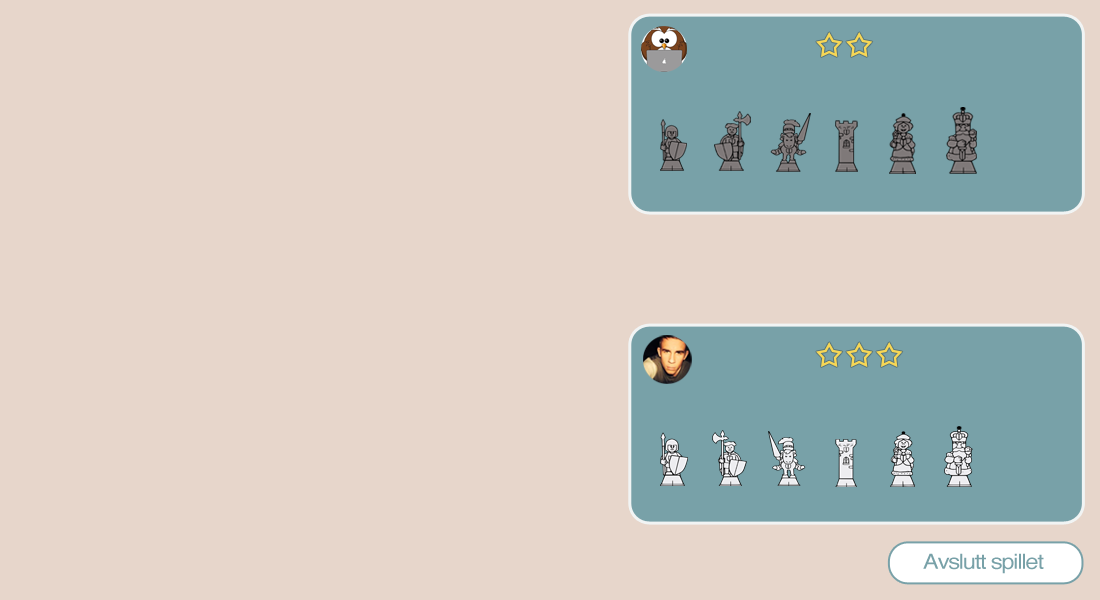
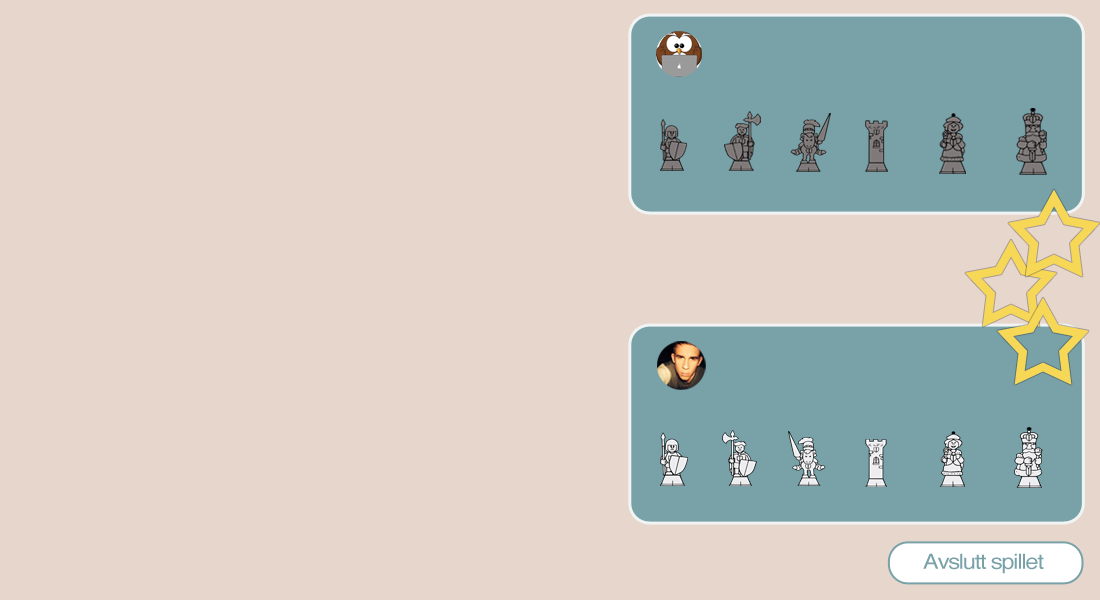
More GUI update

diff --git a/core/src/com/grnn/chess/states/PlayState.java b/core/src/com/grnn/chess/states/PlayState.java
@@ -137,22 +137,22 @@ public class PlayState extends State {
 
         fontText.draw(batch, text, 645, 334);
         fontCounter.draw(batch, "" + pawnCounter, 668, 420);
-        fontCounter.draw(batch, "" + bishopCounter, 727, 420);
-        fontCounter.draw(batch, "" + knightCounter, 785, 420);
-        fontCounter.draw(batch, "" + rookCounter, 843, 420);
-        fontCounter.draw(batch, "" + queenCounter, 900, 420);
-        fontCounter.draw(batch, "" + kingCounter, 959, 420);
+        fontCounter.draw(batch, "" + bishopCounter, 738, 420);
+        fontCounter.draw(batch, "" + knightCounter, 804, 420);
+        fontCounter.draw(batch, "" + rookCounter, 873, 420);
+        fontCounter.draw(batch, "" + queenCounter, 950, 420);
+        fontCounter.draw(batch, "" + kingCounter, 1030, 420);
 
         fontCounter.draw(batch, "" + pawnCounterPlayer, 668, 100);
-        fontCounter.draw(batch, "" + bishopCounterPlayer, 727, 100);
-        fontCounter.draw(batch, "" + knightCounterPlayer, 785, 100);
-        fontCounter.draw(batch, "" + rookCounterPlayer, 843, 100);
-        fontCounter.draw(batch, "" + queenCounterPlayer, 900, 100);
-        fontCounter.draw(batch, "" + kingCounterPlayer, 959, 100);
+        fontCounter.draw(batch, "" + bishopCounterPlayer, 738, 100);
+        fontCounter.draw(batch, "" + knightCounterPlayer, 804, 100);
+        fontCounter.draw(batch, "" + rookCounterPlayer, 873, 100);
+        fontCounter.draw(batch, "" + queenCounterPlayer, 950, 100);
+        fontCounter.draw(batch, "" + kingCounterPlayer, 1030, 100);
 
         // Player names
-        fontCounter.draw(batch, "" + humanPlayer.getName() , 700, 250);
-        fontCounter.draw(batch, "" + "Datamaskin" , 700, 560);
+        fontCounter.draw(batch, "" + humanPlayer.getName() , 720, 245);
+        fontCounter.draw(batch, "" + "Datamaskin" , 720, 555);
 
 
 
